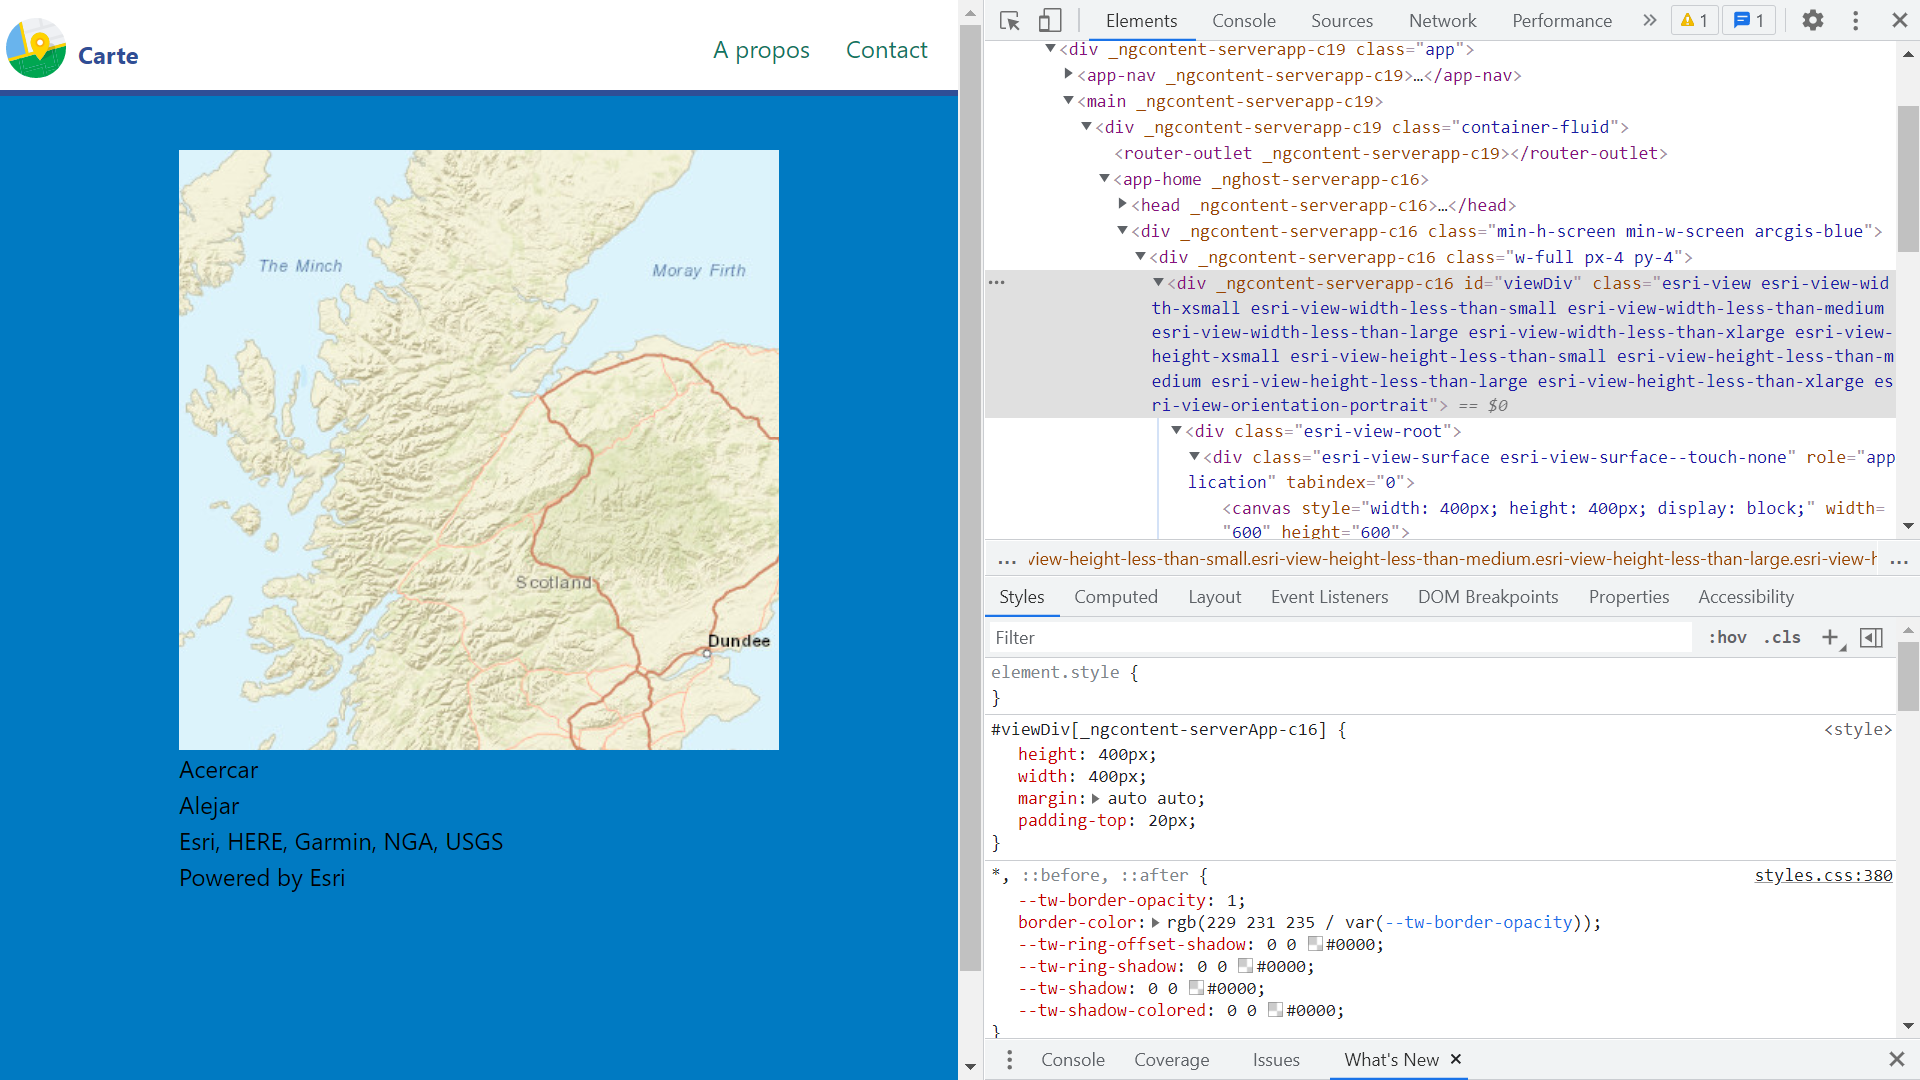
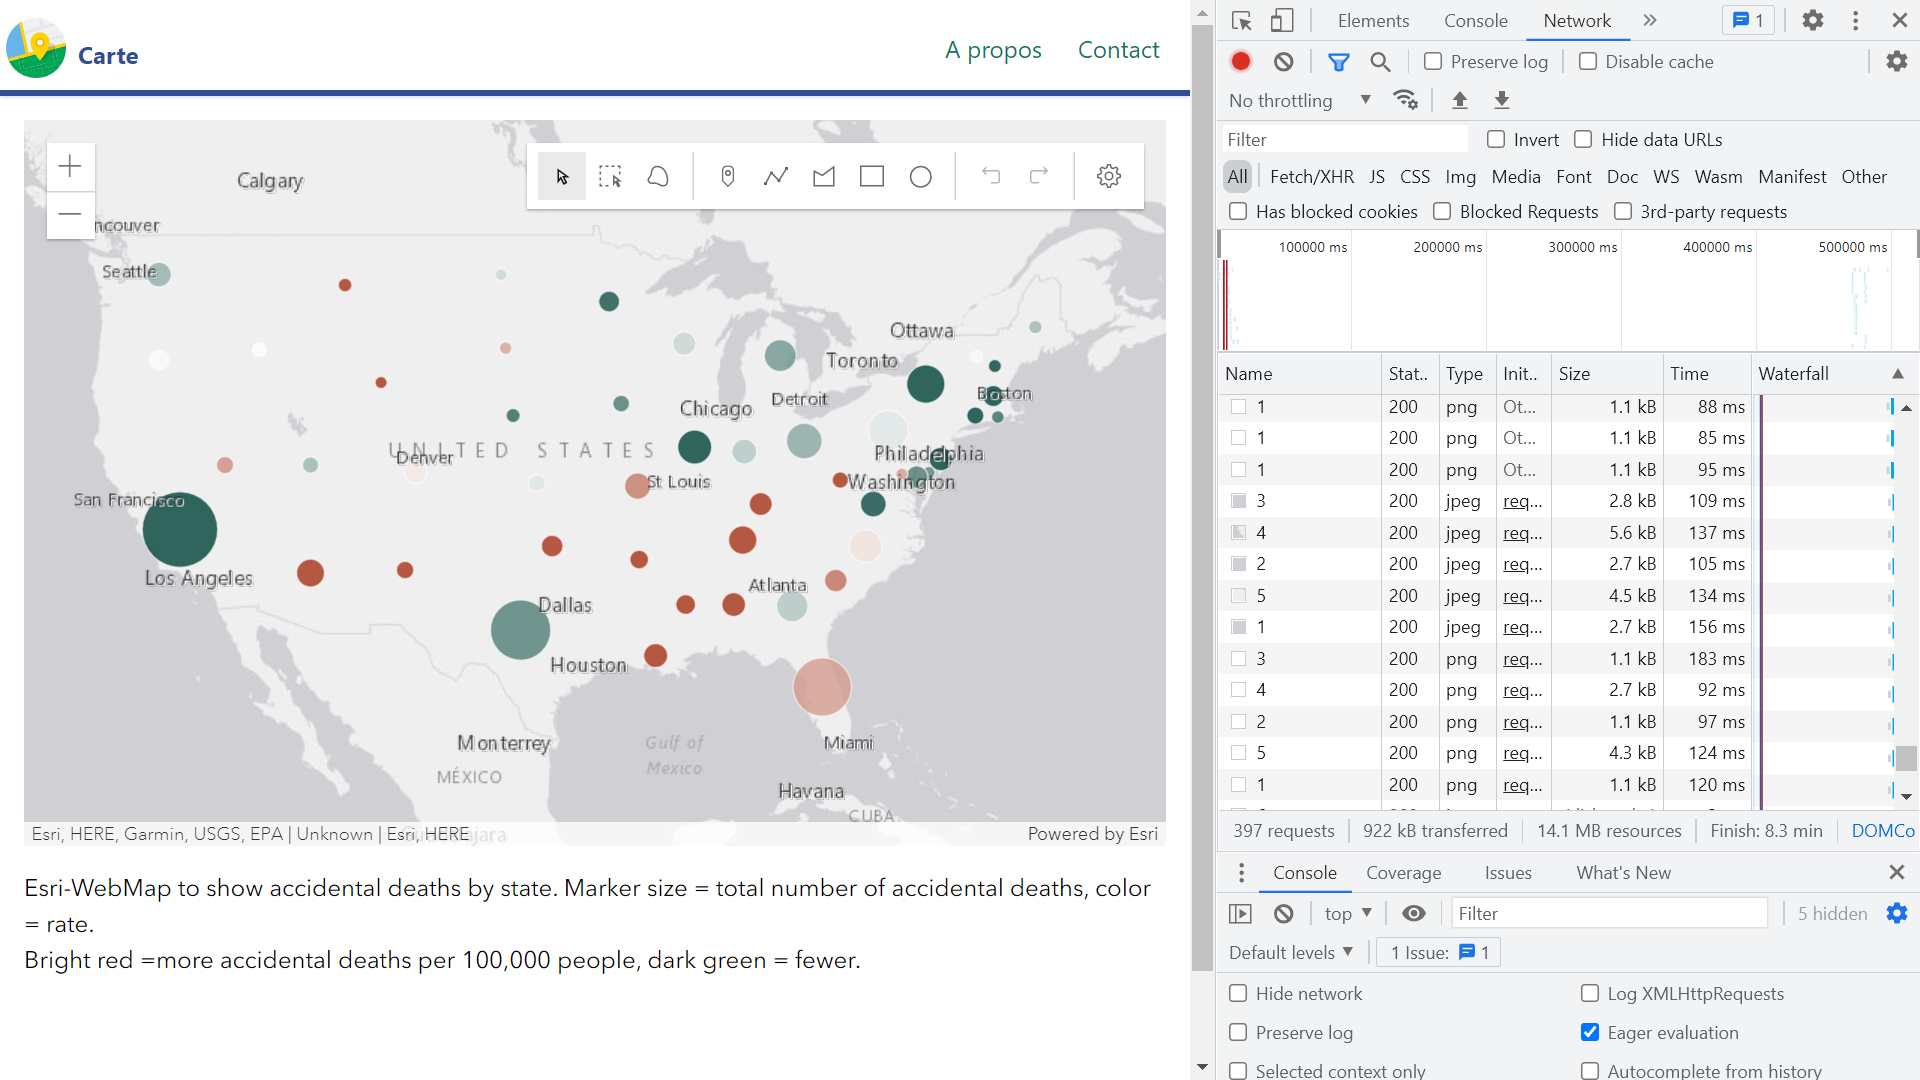
docs: user info. updated & images added

diff --git a/README.md b/README.md
@@ -20,8 +20,12 @@
 
 ## :books: General info
 
-* Basic PWA with SSR and Tailwind CSS, common pages done, home page basic esri map display
-* Common pages: About - info. about the app, Contact - info. about the author
+* Basic PWA with SSR and Tailwind CSS
+* esri-map view refactored to use @arcgis/core mapView and WebMap with a GraphicsLayer to allow sketching
+* WebView map specified using a [portalItem id](https://developers.arcgis.com/javascript/latest/api-reference/esri-WebMap.html#portalItem)
+* About page - info. about the app
+* Contact page - info. about the author
+* Location page uses sessionStorage to store user coordinates and these are lost the moment the browser is closed
 * [Progressive Web App (PWA)](https://firt.dev/pwa-2021/) capability added. The PWA is still evolving and I believe worth including in an app but needs to be kept up to date
 * [ArcGIS API for Javascript CDN](https://developers.arcgis.com/javascript/latest/guide/get-api/#cdn) link in `esri-map` component.
 * [ArcGIS for Developers](https://developers.arcgis.com/) offers a full suite of tools and resources to build mapping and analytics solutions. Use ArcGIS APIs to create location-based applications for web, desktop, and mobile devices.
@@ -33,6 +37,7 @@
 ![Example screenshot](./imgs/map.png)
 ![Example screenshot](./imgs/about.png)
 ![Example screenshot](./imgs/contact.png)
+![Example screenshot](./imgs/location.png)
 
 ## :signal_strength: Technologies
 
@@ -41,7 +46,7 @@
 * [Angular Server-side rendering (SSR) with Angular Universal](https://angular.io/guide/universal)
 * [Angular Formcontrol](https://angular.io/api/forms/FormControl)
 * [RxJS Library v7](https://angular.io/guide/rx-library) used to handle async operations using observables
-* [@arcgis/core v4.22](https://www.npmjs.com/package/@arcgis/core) - the version is significant because ES modules were added after v4.18
+* [@arcgis/core v4.22.2](https://www.npmjs.com/package/@arcgis/core) - the version is significant because ES modules were added after v4.18
 
 ## :floppy_disk: Setup
 
@@ -87,6 +92,7 @@
 * [ArcGIS Living Atlas of the World](https://livingatlas.arcgis.com/en/browse/#d=2&q=sea%20ice)
 * [Dev.to: Setup TailwindCSS in Angular the easy way](https://dev.to/angular/setup-tailwindcss-in-angular-the-easy-way-1i5l)
 * [Free svg icons](https://www.iconfinder.com/search/?q=map&price=free)
+* [StackOverflow: ngIf - Expression has changed after it was checked](https://stackoverflow.com/questions/43513421/ngif-expression-has-changed-after-it-was-checked)
 
 ## :envelope: Contact
 
